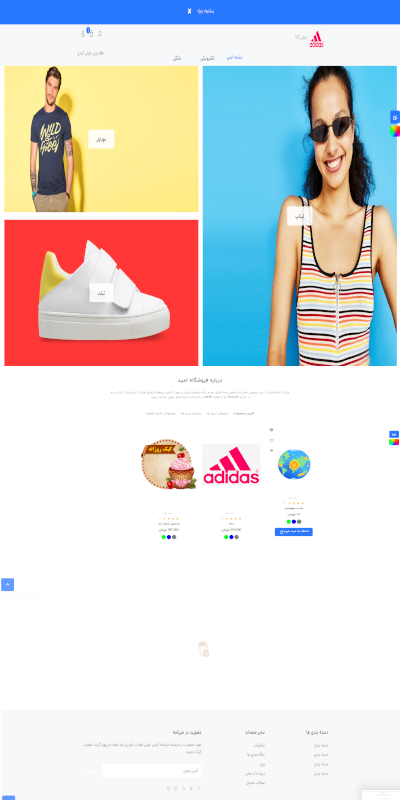
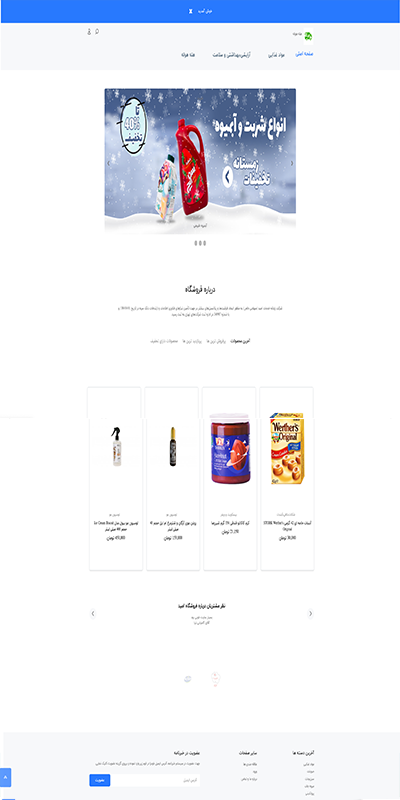
select template has been changed

diff --git a/public/dashboard/assets/css/admin-shop-setting.css b/public/dashboard/assets/css/admin-shop-setting.css
@@ -26,3 +26,27 @@
 .extrem-height-image:hover {
     top: -300px;
 }
+img {
+  width: 20vw;
+  height: 20vw;
+  padding: 2vw;
+}
+
+input[type=radio] {
+  display: none;
+}
+
+img:hover {
+  opacity:0.6;
+  cursor: pointer;
+}
+
+img:active {
+  opacity:0.4;
+  cursor: pointer;
+}
+
+input[type=radio]:checked + label > img {
+  border: 40px solid #122272
+;
+}

diff --git a/resources/views/dashboard/shop/shop-setting.blade.php b/resources/views/dashboard/shop/shop-setting.blade.php
@@ -27,6 +27,10 @@
             <i class="fas fa-info-circle m-1"></i>{{ __('dashboard-shop-shop-setting.boxTitle1') }}</a>
     </li>
     <li class="nav-item">
+        <a class="nav-link" data-toggle="tab" href="#template" role="tab">
+          <i class="fa fa-file m-1" aria-hidden="true"></i>انتخاب قالب فروشگاه</a>
+    </li>
+    <li class="nav-item">
         <a class="nav-link" data-toggle="tab" href="#theme" role="tab">
             <i class="fa fa-cog pr-2 m-1"></i>{{ __('dashboard-shop-shop-setting.boxTitle2') }}</a>
     </li>
@@ -457,24 +461,6 @@
 
                             </div>
                         </div>
-
-                        <div class="form-group row">
-                            <label style="text-align: center" for="example-email-input" class="col-sm-2 col-form-label text-center">{{ __('dashboard-shop-shop-setting.tanzimateGhalebeForooshgahItem7') }}</label>
-                            <div class="col-sm-10">
-                                <select class="form-control" name="template_id" id="AgencyDetails">
-                                    <option {{ $templates[0]->id == \Auth::user()->shop()->first()->template->id ? 'selected' : ''}} value="{{ $templates[0]->id }}" data-type='<div class="img-wrapper m-5">
-                                        <img class="extrem-height-image" src="{{ asset('dashboard/assets/images/theme-default.png') }}"/>
-                                    </div>'>{{ $templates[0]->name }}</option>
-                                    <option {{ $templates[1]->id == \Auth::user()->shop()->first()->template->id ? 'selected' : ''}} value="{{ $templates[1]->id }}" data-type='<div class="img-wrapper m-5">
-                                        <img class="extrem-height-image" src="{{ asset('dashboard/assets/images/theme-1.png') }}"/>
-                                    </div>'>{{ $templates[1]->name }}</option>
-                                </select>
-                            </div>
-                            <div id="result"></div>
-
-                        </div>
-
-                        <!--end card-body-->
                     </div>
                     <!--end card-->
                 </div>
@@ -487,6 +473,52 @@
             </div>
         </form>
     </div>
+
+    <div class="tab-pane fade" id="template" role="tabpanel">
+        <form method="post" action="{{ route('shop.setting.update-template',['id' => \Auth::user()->shop()->first()->id, 'shop' => \Auth::user()->shop->english_name]) }}" enctype="multipart/form-data">
+            @csrf
+            @method('PUT')
+            <div class="row">
+                <div class="col-xl-12">
+                    <div class="card">
+                        <div class="card-body">
+                            <h4 class="mt-0 header-title">{{ __('dashboard-shop-shop-setting.tanzimateGhalebeForooshgahTitle') }}</h4>
+                            <p class="text-muted mb-3">در این بخش میوانید قالب مورد نظر خود را انتخاب نمایید.<p>
+                        </div>
+                        <div class="form-group row">
+                            <div class="col-sm-10">
+                              <div class="img-wrapper m-5 test">
+                                  <input type="radio" name="template_id" id="choose-1" value="1" {{ $templates[0]->id == \Auth::user()->shop()->first()->template->id ? 'checked' : ''}}/>
+                                  <label for="choose-1">
+                                      <img class="extrem-height-image" src="{{ asset('dashboard/assets/images/theme-default.png') }}" />
+                                  </label>
+
+                              </div>
+                              <div class="img-wrapper m-5 test">
+                                  <input type="radio" name="template_id" id="choose-2" value="2" {{ $templates[1]->id == \Auth::user()->shop()->first()->template->id ? 'checked' : ''}}/>
+                                  <label for="choose-2">
+                                      <img class="extrem-height-image" src="{{ asset('dashboard/assets/images/theme-1.png') }}" />
+                                  </label>
+                              </div>
+                            <div id="result"></div>
+
+                        </div>
+
+                        <!--end card-body-->
+                    </div>
+                    <!--end card-->
+                </div>
+                <!--end col-->
+
+                <!--end col-->
+            </div>
+          </div>
+            <div class="justify-content-end row">
+              <div class="text-right mb-3 ">
+                  <button data-toggle="modal" data-target="#AddWalletModal" type="submit" class="btn btn-success px-5 py-2  iranyekan rounded ">{{ __('dashboard-shop-shop-setting.sabt') }}</button><br>
+              </div>
+            </div>
+        </form>
 
     <div class="tab-pane fade" id="contact" role="tabpanel">
         <form method="post" action="{{ route('shop.setting.update-contact', ['id' => \Auth::user()->shop()->first()->id, 'shop' => \Auth::user()->shop->english_name]) }}">
@@ -949,5 +981,20 @@
       //Load the map when the page has finished loading.
       google.maps.event.addDomListener(window, 'load', initMap);
 
+  </script>
+  <script type="text/javascript">
+  $(document).ready(function(){
+
+      if ($(".radio").attr("checked") == "checked") {
+        $(".radio").parent().parent().addClass("outline")
+      }
+    });
+
+  </script>
+  <script type="text/javascript">
+  $('.radio').click(function() {
+    $(this).parent().parent().toggleClass("outline")
+
+});
   </script>
 @stop

diff --git a/resources/views/dashboard/shop/voucher.blade.php b/resources/views/dashboard/shop/voucher.blade.php
@@ -77,7 +77,8 @@
                                 </div>
 
                                 <div class="input-group mt-3">
-                                    <div class="input-group-prepend min-width-180"><span class="input-group-text bg-light min-width-140" id="basic-addon7">{{ __('dashboard-shop-voucher.addModalItem3') }} :</span></div>
+                                    <div class="input-group-prepend min-width-180"><span class="input-group-text bg-light min-width-140" id="basic-addon7"><i
+                                              class="fas fa-star required-star mr-1"></i>تعداد قابل استفاده :</span></div>
                                     <input type="number" class="form-control inputfield" name="uses" value="{{ old('uses') }}" placeholder="{{ __('dashboard-shop-voucher.addModalItem3ex') }}">
                                 </div>
                                 <div class="input-group mt-3">
@@ -172,7 +173,8 @@
                                 </div>
 
                                 <div class="input-group mt-3">
-                                    <div class="input-group-prepend min-width-180"><span class="input-group-text bg-light min-width-140" id="basic-addon7">{{ __('dashboard-shop-voucher.editModalItem3') }} :</span></div>
+                                    <div class="input-group-prepend min-width-180"><span class="input-group-text bg-light min-width-140" id="basic-addon7"><i
+                                              class="fas fa-star required-star mr-1"></i>تعداد قابل استفاده :</span></div>
                                     <input type="number" class="form-control inputfield" name="uses" value="{{ $voucher->uses }}">
                                 </div>
                                 <div class="input-group mt-3">

diff --git a/resources/views/dashboard/shop/product/index.blade.php b/resources/views/dashboard/shop/product/index.blade.php
@@ -775,9 +775,6 @@
                                             $id = 1;
                                             @endphp
                                             @foreach($products as $product)
-                                              @php
-
-                                              @endphp
                                             <tr role="row" class="odd icon-hover hover-color" id="{{ $product->id }}">
                                                 <td class="sorting_1" style="width:5%">{{ $id }}</td>
                                                 <td class="sorting_1" style="width:5%"><img src="{{ asset($product->image['80,80'] ? $product->image['80,80'] : '/images/no-image.png') }}" class="img-fluid" alt="Responsive image"></td>
@@ -822,7 +819,7 @@
                                                     <td>-</td>
                                                     @endif
 
-                                                    <td @if($product->amount <= $product->min_amount) class="text-danger amount-warning" @endif >{{ $product->amount != null ? $product->amount : '-' }}</td>
+                                                    <td @if($product->amount <= $product->min_amount and $product->type == 'product') class="text-danger amount-warning" @endif >{{ $product->amount != null ? $product->amount : '-' }}</td>
 
                                                     <td>
                                                         @if ($product->type == 'service') {{ __('dashboard-shop-product-index.ListMahsoolatTableTypeItem2') }}

diff --git a/resources/views/app/shop/account/account-address-edit.blade.php b/resources/views/app/shop/account/account-address-edit.blade.php
@@ -10,36 +10,7 @@
 </style>
 
 <div id="tt-pageContent">
-  <div class="row justify-content-end">
-  @if(\auth::user()->type == 'customer')
-    <a href="{{ url('/'.$shop_name) }}">
-      <button type="button" class="border-0 btn-warning p-2 rounded" style="
-            font-size: 19px;
-            padding-bottom: 7px!important;
-            padding-top: 13px!important;
-        ">
-                بازشگت به فروشگاه
-            </button>
-  </a>
-@else
-  <a href="{{ route('dashboard.index') }}">
-    <button type="button" class="border-0 btn-warning p-2 rounded" style="
-          font-size: 19px;
-          padding-bottom: 7px!important;
-          padding-top: 13px!important;
-      ">
-            پنل مدیریت
-          </button>
-</a>
-@endif
-  <a href="{{ route('logout') }}">
-    <button type="button" class="border-0 btn-danger mr-3 p-1 px-3 rounded" style="
-          font-size: 18px;
-      ">
-            خروج از حساب<i class="fa fa-arrow-circle-left m-2"></i>
-        </button>
-</a>
-</div>
+
     <div class="container-indent">
         <div class="container container-fluid-custom-mobile-padding">
 

diff --git a/app/Http/Controllers/Dashboard/Shop/ShopSettingController.php b/app/Http/Controllers/Dashboard/Shop/ShopSettingController.php
@@ -218,9 +218,19 @@ class ShopSettingController extends Controller
         'buyCount_show' => $request->buyCount_show,
         'watermark' => $watermark,
         'special_offer' => $request->special_offer,
-        'template_id' => $request->template_id,
         'special_offer_text' => $request->special_offer_text,
         'VAT' => $request->VAT,
+      ]);
+      alert()->success('تغییرات شما باموفقیت اضافه شد.', 'ثبت شد');
+      return redirect()->route('shop-setting.index');
+    }
+
+
+
+
+    public function updateTemplate(ShopThemeRequest $request){
+      $shop = \Auth::user()->shop()->first()->update([
+        'template_id' => $request->template_id,
       ]);
       alert()->success('تغییرات شما باموفقیت اضافه شد.', 'ثبت شد');
       return redirect()->route('shop-setting.index');

diff --git a/resources/views/app/shop/1/product.blade.php b/resources/views/app/shop/1/product.blade.php
@@ -270,7 +270,7 @@
                     <div class="col-lg-3 align-self-center"><img src="{{ asset($product->image['250,250'] ? $product->image['250,250'] : '/images/no-image.png') }}" alt="" height="250" class="d-block mx-auto col-12"></div>
                     <div class="col-lg-9">
                         <h5 class="mt-3">{{ __('app-shop-1-product.tozihaat') }} :</h5>
-                        <p class="text-muted mb-4"> {!! $product->description  !!}</p>
+                        <p class="text-muted mb-4" style="line-height:30px"> {!! $product->description  !!}</p>
                         <ul class="list-unstyled mb-4">
                             @for ($i=1; $i
                             <= 10; $i++) @if ($product->{"feature_{$i}"})

diff --git a/routes/web.php b/routes/web.php
@@ -197,6 +197,7 @@ Route::namespace('Dashboard')->prefix('admin-panel')->middleware('auth')->group(
           Route::resource('shop-setting', 'ShopSettingController');
           Route::put('shop-setting/setting-update/{id}', 'ShopSettingController@updateSetting')->name('shop-setting.setting-update');
           Route::put('shop-setting/update-contact/{id}', 'ShopSettingController@updateContact')->name('shop.setting.update-contact');
+          Route::put('shop-setting/update-template/{id}', 'ShopSettingController@updateTemplate')->name('shop.setting.update-template');
           Route::post('shop-setting/image/delete', 'ShopSettingController@destroyImage')->name('shop-setting.image.delete');
 
 

diff --git a/app/Http/Controllers/Shop/CompareController.php b/app/Http/Controllers/Shop/CompareController.php
@@ -22,7 +22,7 @@ class CompareController extends Controller
           if (Shop::where('english_name', $shopName)->first() == null) {
               return abort(404);
           }
-          if(\Auth::user()->compare()->get()->where('shop_id', Shop::where('english_name', $shopName)->first()->id)->first()->count() > 0){
+          if(\Auth::user()->compare()->get()->where('shop_id', Shop::where('english_name', $shopName)->first()->id)->first() != null){
             $compareProducts = \Auth::user()->compare()->get()->where('shop_id', Shop::where('english_name', $shopName)->first()->id)->first()->products;
           }else{
             $compareProducts = collect();

diff --git a/resources/views/dashboard/shop/product/edit-physical.blade.php b/resources/views/dashboard/shop/product/edit-physical.blade.php
@@ -256,7 +256,6 @@
                                       <div class="card-body">
                                           <h4 class="mt-0 header-title">تصویر محصول</h4>
                                           <a class="mr-2 font-15" href="" id="icon-delete" title="حذف آیکون" data-name="{{ $product->name }}" data-id="{{ $product->id }}"><i class="far fa-trash-alt text-danger font-18 pl-2"></i>حذف</a>
-
                                           <input type="file" id="input-file-now" name="image" class="dropify" data-default-file="{{ $product->image['original'] }}">
                                       </div>
 

diff --git a/resources/views/dashboard/shop/product-category/index.blade.php b/resources/views/dashboard/shop/product-category/index.blade.php
@@ -83,6 +83,11 @@
          <div class="card">
             <div class="card-body p-0 p-lg-2 p-md-2">
                <div id="accordion">
+                @if($parentCategories->count() <= 0)
+                  <div class="d-flex font-18 justify-content-center text-red">
+                    دسته بندی وجود ندارد !!!! 
+                  </div>
+                @endif
                   @foreach($parentCategories as $parentCategory)
                   <div class="card border">
                      <div class="card-header d-flex justify-content-between flex-wrap" id="heading{{ $parentCategory->id }}">

diff --git a/resources/lang/fa/validation.php b/resources/lang/fa/validation.php
@@ -167,7 +167,6 @@ return array(
         'tel' => 'تلفن',
         'nationalCode' => 'کد ملی',
         'shenasnamehCode' => 'شماره شناسنامه',
-        'tel' => 'تلفن',
         'placeOfIssue' => 'محل سکونت',
         'birthDate' => 'تاریخ تولد',
         'zipCode' => 'کد پستی',
@@ -230,5 +229,6 @@ return array(
         'off_price_started_at' => 'تاریخ شروع تخفیف',
         'off_price_expired_at' => 'تاریخ اتمام تخفیف',
         'code' => 'کد تخفیف',
+        'uses' => 'تعداد قابل استفاده',
           ),
 );
